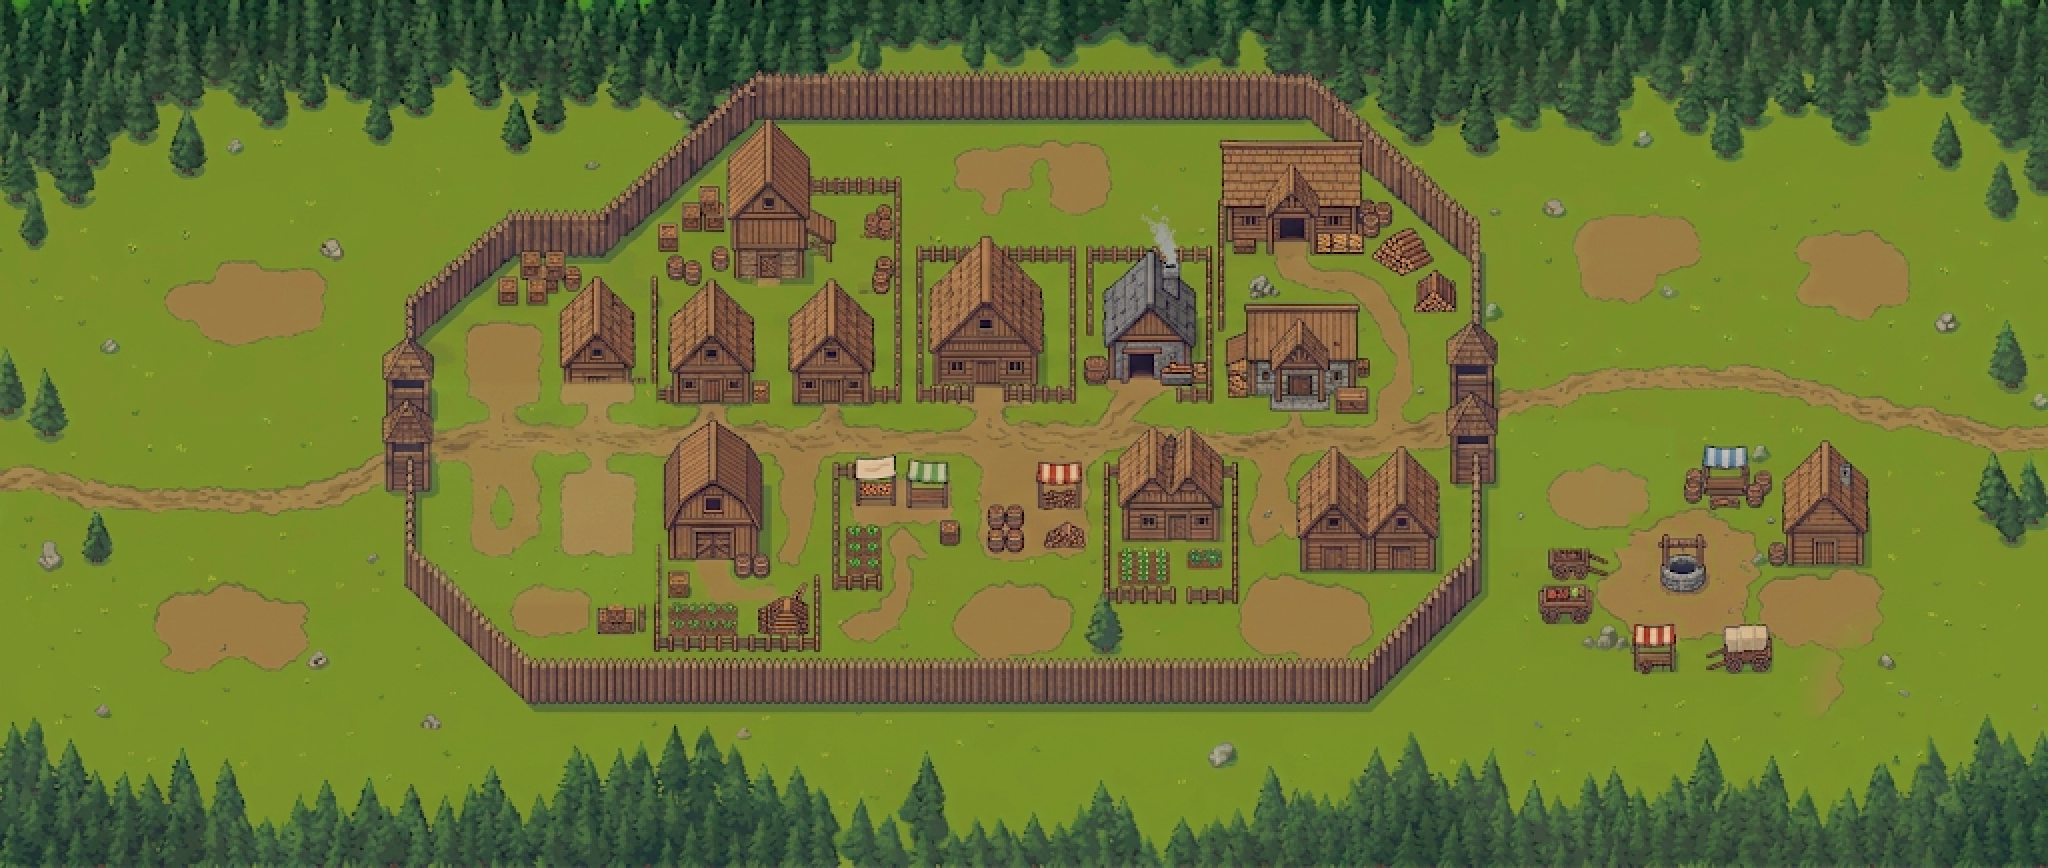
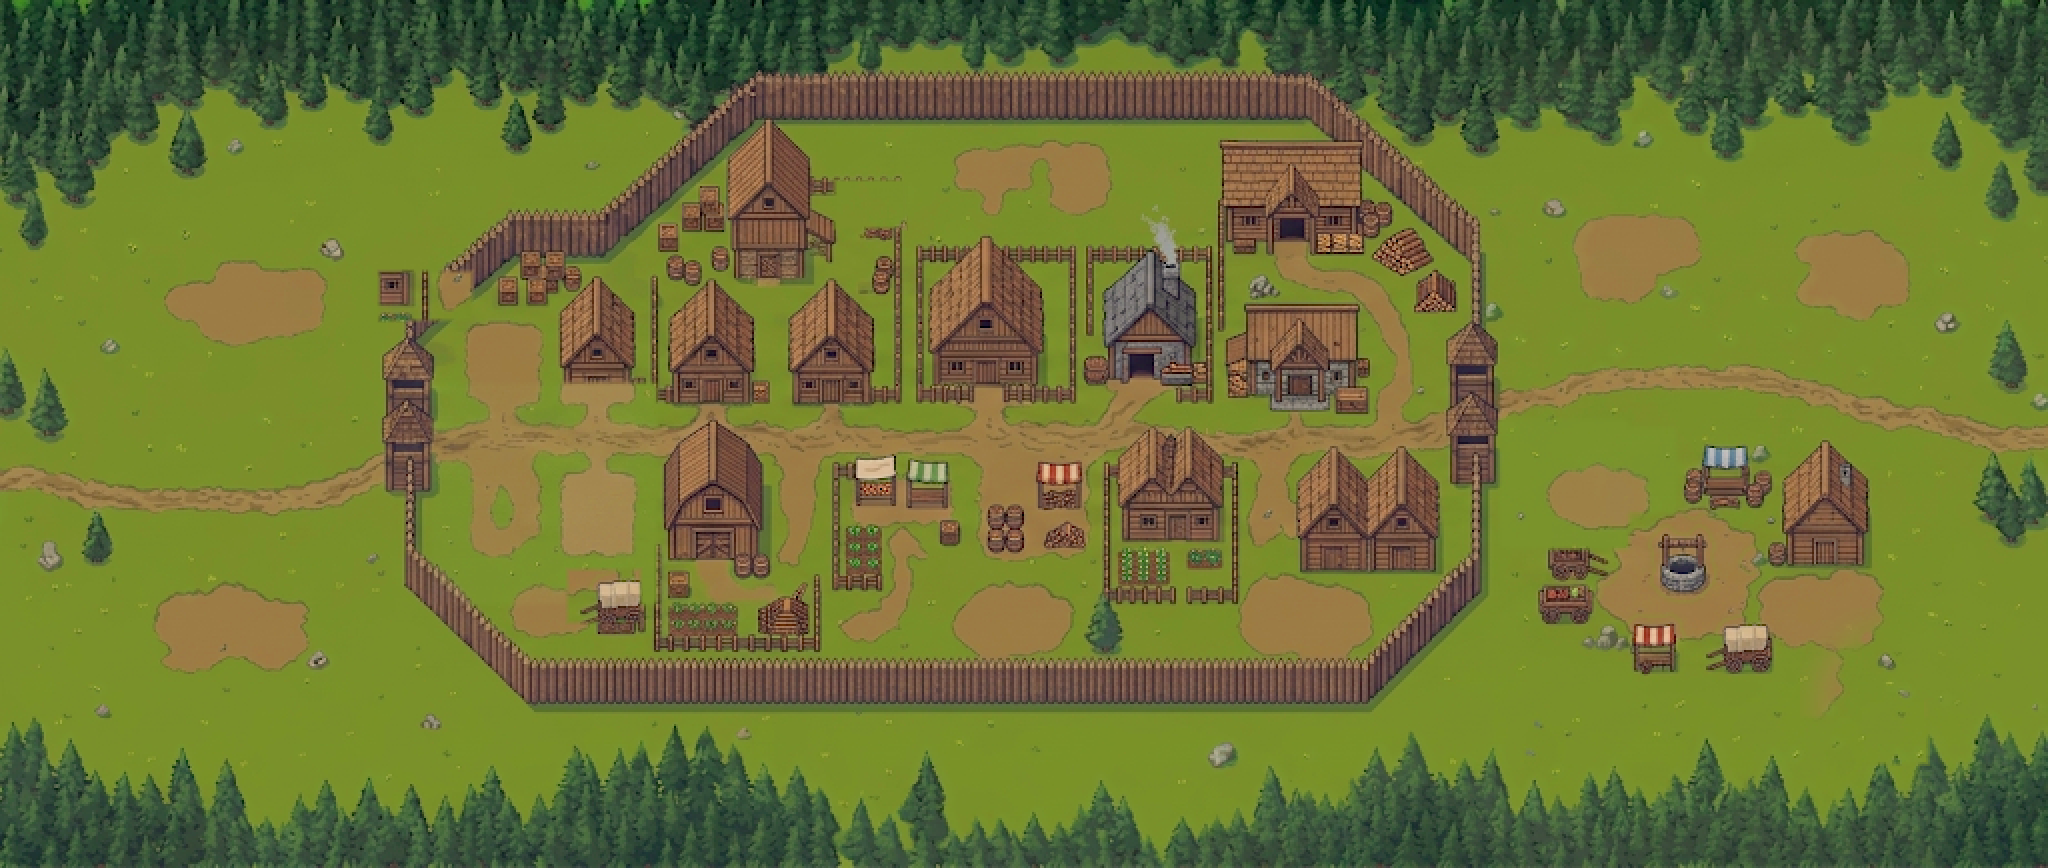
fix: rev6 follow-up batch - one-run flow, Eldervale title, map polish
- Remove Choose Your Map screen: play routes straight into the Verdant run
  (one big run); run-complete button relabeled World Map; verifier updated
- Region title: Eldervale in gold MedievalSharp (self-hosted woff2, white
  outline), replaces emoji + map name
- Region map: 4 light mist patches drifting out of the corrupted corner
  (existing three-lobe system, weaker opacity); ruined keep's animated
  pennant removed (out of place on a ruin)
- Battle map: s3/s7 slot markers re-centered on their pads; new s9 slot on
  the far-east patch; barrels/crates/wagon composited onto 3 unused pads;
  gatehouse occluders reinstated (road passes through the gates)
- Letterbox behind battle canvas: neutral dark backdrop instead of the
  confusing green-tinted map cover
- Radial menu: armed build button no longer grows/jumps (CSS transform was
  replacing the centering translate)
- sw.js v130 -> v131, font added to ASSETS. Verifier: PASS

Changed region(s): [[0.1875, 0.3111, 0.25, 0.3733], [0.4062, 0.1866, 0.4375, 0.28], [0.25, 0.6532, 0.3125, 0.7154]]

diff --git a/learn/drill/drill.js b/learn/drill/drill.js
@@ -3396,7 +3396,7 @@ const TD_WPS_POOL = [
 // ── Three themed maps ──────────────────────────────────────────
 const TD_MAPS = [
   {
-    id: 0, name: 'The Verdant Frontier', icon: '🌿', color: '#4ADE80',
+    id: 0, name: 'The Verdant Frontier', regionName: 'Eldervale', icon: '🌿', color: '#4ADE80',
     subtitle: 'Parts 1–3 · SQL, Modeling & Pipelines',
     parts: [1,2,3], unlockRequirement: 0,
     bgZones: ['#1a3d08','#0a2810','#060c03'], themeName: 'verdant',
@@ -3537,17 +3537,27 @@ const FRONTIER_TOWN_MAP = {
   // gate on painted clearings, 4 inside the walls on open pads (the inside-
   // west pad is where the wide barn stood before it was composited away —
   // its roof sat on the road's south edge).
+  // Slot retune 2026-07-12 (owner markup): s3/s7 re-centered onto their
+  // pads, s9 added on the big NE-of-camp patch. Unused standout pads got
+  // props composited on (barrels/crates/wagon cloned from the map itself)
+  // so open dirt = buildable, cluttered dirt = scenery.
   buildSlotsPx: [
     [242,310],[210,590],     // outside west gate (upper, lower clearing)
-    [1000,184],[540,494],    // inside: top-center pad, west plot (ex-barn)
+    [1050,190],[540,494],    // inside: top-center pad, west plot (ex-barn)
     [1010,580],[1320,600],   // inside: south-center pad, south-east pad
-    [1670,256],[1604,484],   // outside east gate (NE clearing, camp-side clearing)
+    [1584,240],[1604,484],   // outside east gate (NE clearing, camp-side clearing)
+    [1850,236],              // far-east patch past the camp (owner request)
   ],
-  // Empty ON PURPOSE — not "not yet authored". The north-half waypoint line
-  // keeps units in front of every structure (verified against goblin/boss
-  // sprite heights on the route audit), so nothing needs redrawing over
-  // enemies. Occluder redraws hide units behind scenery; zero is the ideal.
-  occludersPx: [],
+  // The north-half waypoint line keeps units in front of every SOUTH-side
+  // structure, but the road passes THROUGH both gatehouses — units overlapped
+  // the tower bodies there ("goblins walk right through the gate wall").
+  // These two tight rects redraw the gatehouses over enemies, so units read
+  // as passing behind/inside the gate for ~0.5s. The rest of the map stays
+  // occluder-free on purpose (occluder redraws hide units; zero elsewhere).
+  occludersPx: [
+    [392,328,466,496],   // west gatehouse tower body
+    [1436,316,1514,504], // east gatehouse tower body
+  ],
 };
 
 function tdManhattanPathSet(wps, cols, rows) {
@@ -4654,6 +4664,15 @@ const RVM_AMBIENT = {
     { cx: 880, cy: 150, rx: 110, ry: 55, dur: 78, delay: -20, op: .20 },
     { cx: 950, cy: 250, rx: 90,  ry: 50, dur: 55, delay: -35, op: .15 },
     { cx: 830, cy: 205, rx: 70,  ry: 35, dur: 70, delay: -8,  op: .12 },
+    // 2026-07-12: light vapor drifting out of the corrupted corner into the
+    // mid-region (owner request) — deliberately weaker (op .07-.12) and
+    // smaller than the corrupted-zone banks so it reads as thinning
+    // outflow, broken and uneven, not a second weather system. Same
+    // three-lobe gradient patches as above = same painted look.
+    { cx: 700, cy: 330, rx: 75, ry: 30, dur: 84, delay: -12, op: .10 },
+    { cx: 612, cy: 175, rx: 60, ry: 24, dur: 71, delay: -44, op: .07 },
+    { cx: 795, cy: 395, rx: 85, ry: 34, dur: 66, delay: -28, op: .12 },
+    { cx: 545, cy: 300, rx: 55, ry: 22, dur: 90, delay: -55, op: .07 },
   ],
   // Chimney/campfire sources as [x, y, dx]: dx is the horizontal drift (px)
   // a puff picks up over its rise, matched to each landmark's PAINTED plume
@@ -4671,10 +4690,11 @@ const RVM_AMBIENT = {
     [234,106],[259,158],[300,250],[348,333],[298,394],[325,93],[326,144],
     [338,268],[364,306],[590,140],[660,130],[700,180],[619,198],[708,196],[872,277],
   ],
-  // Pennant poles planted ON the tower tips (keep's central spire, the
-  // crag watchtower's roof apex) — earlier coords floated beside them.
+  // Pennant pole planted ON the crag watchtower's roof apex. The ruined
+  // keep's pennant was removed (owner, 2026-07-12): a crisp flying flag on
+  // a decrepit corrupted ruin read as out of place.
   flags: [
-    { x: 827, y: 37 }, { x: 444, y: 191 },
+    { x: 444, y: 191 },
   ],
   sheep: [  // grazing wanderers inside the painted flocks' open grass
     { x: 555, y: 235, dur: 55, delay: 0 },   // lakeside meadow (was in the trees NW of it)
@@ -4807,7 +4827,7 @@ function renderVerdantWorldMap(run) {
       <div class="region-map-header">
         <button class="td-header-back" id="td-header-back">← Home</button>
         <div class="region-map-header-text">
-          <span class="region-map-title">${mapDef.icon} ${mapDef.name}</span>
+          <span class="region-map-title region-map-title-fancy">${mapDef.regionName || mapDef.name}</span>
         </div>
         <div class="td-header-right">
           <button class="td-header-icon" id="td-header-inventory" title="Inventory">🎒</button>
@@ -4954,7 +4974,15 @@ function showRunMap(run) {
   if (run.usesRegionMap) renderVerdantWorldMap(run); else renderRunMap(run);
 }
 
-function showTDWorldMap() { battleMusicHorn.stop(); showMapSelection(); }
+// One big run (owner decision 2026-07-12): the "Choose Your Map" screen is
+// bypassed — play routes straight into the Verdant run. showMapSelection
+// stays intact (unreferenced) for if/when multiple worlds go live.
+function showTDWorldMap() {
+  battleMusicHorn.stop();
+  const existRun = tdLoadRun();
+  const run = isRunCompatible(existRun, 0) ? existRun : generateRun(0);
+  showRunMap(run);
+}
 
 // ── Relic equip menu (EQ-4) ──────────────────────────────────────
 // Reachable from the run map / map select top bar. Category exclusivity is
@@ -5385,7 +5413,7 @@ function showRunCompleteScreen(run, finalGoldReward) {
       </div>
       <div class="run-complete-btns">
         <button class="td-wave-btn" id="rc-play-again">▶ Play Again</button>
-        <button class="td-map-btn"  id="rc-choose-map">🗺️ Choose Map</button>
+        <button class="td-map-btn"  id="rc-choose-map">🗺️ World Map</button>
       </div>
     </div>`;
 
@@ -5393,7 +5421,7 @@ function showRunCompleteScreen(run, finalGoldReward) {
     const newRun = generateRun(run.mapId);
     showRunMap(newRun);
   });
-  document.getElementById('rc-choose-map').addEventListener('click', showMapSelection);
+  document.getElementById("rc-choose-map").addEventListener("click", showTDWorldMap);
 }
 
 // ── Tutorial ───────────────────────────────────────────────────
@@ -5619,10 +5647,14 @@ function initTDGame(levelDef, levelIdx, startLivesOverride, startGoldOverride) {
     td.occluders = levelDef.occludersPx || null;
     td.bgSize = levelDef.bgSize || null;
     // Fill the letterbox around the contain-fit canvas with the same map
-    // art, cover-fit and slightly darkened — dead black margins read as a
-    // vignette ("looking through a closing eye"); continuing forest doesn't.
+    // art, cover-fit and darkened. The old .35 green-tinted wash was light
+    // enough that the stretched cover copy read as PART OF THE MAP ("why is
+    // there a green overlay / is it cut off?" — owner, 2026-07-12). Neutral
+    // blue-black at .82 keeps a hint of forest texture but is unmistakably
+    // backdrop, while still avoiding the dead-black vignette this exists
+    // to prevent.
     wrap.style.background =
-      `linear-gradient(rgba(6,10,6,.35), rgba(6,10,6,.35)), ` +
+      `linear-gradient(rgba(8,11,16,.82), rgba(8,11,16,.82)), ` +
       `url('${td.paintedBg.src}') center / cover no-repeat`;
   } else {
     td.usesPaintedBg = null;

diff --git a/learn/drill/drill.css b/learn/drill/drill.css
@@ -2427,10 +2427,14 @@ html, body {
 .td-radial-btn.disabled { opacity: .35; pointer-events: none; }
 .td-radial-icon { font-size: 1.3rem; line-height: 1; pointer-events: none; }
 .td-radial-sub { font-size: .56rem; font-weight: 800; color: #FBBF24; pointer-events: none; }
-/* Armed build option (two-tap placement): glow the picked button */
+/* Armed build option (two-tap placement): glow the picked button.
+   NOTE: must repeat the base translate(-50%,-50%) — a bare scale() would
+   REPLACE it, which made the armed button grow AND jump down-right by half
+   its own size (the "second radial is larger and off in another direction"
+   bug). Same size, same place, glow only. */
 .td-radial-btn.armed {
   box-shadow: 0 0 0 3px rgba(255,255,255,.35), 0 0 14px 2px currentColor;
-  transform: scale(1.12);
+  transform: translate(-50%, -50%);
 }
 /* Stacked tower stat card shown while a build option is armed */
 .td-tower-info {
@@ -2804,6 +2808,27 @@ html, body {
     0 1px 0 #7c2d12,
     0 2px 8px rgba(0,0,0,.65),
     0 0 18px rgba(245,158,11,.3);
+}
+/* Region place-name treatment (owner spec 2026-07-12): gold, white-outlined,
+   old-script-but-readable. Font is self-hosted (offline PWA — no CDN fetch);
+   the serif stack below is the pre-load/failure fallback. White outline via
+   stacked 1px shadows: -webkit-text-stroke eats MedievalSharp's thin strokes
+   at this size. */
+@font-face {
+  font-family: 'MedievalSharp';
+  src: url('assets/fonts/MedievalSharp.woff2') format('woff2');
+  font-display: swap;
+}
+.region-map-title-fancy {
+  font-family: 'MedievalSharp', 'Palatino Linotype', Palatino, Georgia, serif;
+  font-size: 1.55rem;
+  font-weight: 400;
+  letter-spacing: .05em;
+  color: #E8B84B;
+  text-shadow:
+    -1px -1px 0 rgba(255,255,255,.85), 1px -1px 0 rgba(255,255,255,.85),
+    -1px  1px 0 rgba(255,255,255,.85), 1px  1px 0 rgba(255,255,255,.85),
+     0 3px 10px rgba(0,0,0,.75);
 }
 .region-map-header .td-header-back,
 .region-map-header .td-header-icon {

diff --git a/learn/drill/sw.js b/learn/drill/sw.js
@@ -1,4 +1,4 @@
-const CACHE = 'de-drill-v130';
+const CACHE = 'de-drill-v131';
 const ASSETS = [
   './index.html',
   './drill.css',
@@ -9,6 +9,7 @@ const ASSETS = [
   './assets/audio/verdant-battle-strings.mp3',
   './assets/worlds/verdant/region.png',
   './assets/worlds/verdant/battlemaps/frontier-town.png',
+  './assets/fonts/MedievalSharp.woff2',
   './assets/enemies/goblin-walk.png',
   './assets/enemies/goblin-death.png',
   './assets/towers/ranger-tier1.png',

diff --git a/docs/REV6_FOLLOWUPS.md b/docs/REV6_FOLLOWUPS.md
@@ -8,20 +8,20 @@ not pre-mark anything DONE.
 | # | Item | Plan | Status |
 |---|------|------|--------|
 | 1 | This doc | Commit + push before starting work | DONE |
-| 2 | Remove "Choose Your Map" screen | One big run: play routes straight into the Verdant run (map 0); chooser code stays dormant | TODO |
-| 3 | Region title → fantasy name, gold script font | Rename region header to **Eldervale** (owner can veto — one string). Gold fill, white outline, medieval-script-but-readable font, self-hosted woff2 in assets/fonts + SW ASSETS, serif fallback | TODO |
-| 4 | Mist vapor on region map (natural, broken, uneven, light) | Try painted-style wisps as a canvas overlay (low-alpha noise patches). HONESTY GATE: owner said "if it can't look natural, tell me" — if it reads fake, report back instead of shipping | TODO |
-| 5 | Remove flag from ruined keep (region.png) | Clone-stamp out (sparkle-removal technique). Locate flag coords first | TODO |
-| 6a | Slot markers off pad centers | Audit each of the 8 buildSlotsPx against the shipped 2048 asset; retune to visual pad centers | TODO |
-| 6b | New slot on big east dirt patch (owner's circle) | Add 9th slot at that patch's center (locate precisely) | TODO |
-| 6c | Unused dirt pads stand out (owner's squares) | Composite props stolen from the map itself (barrels/wagons/crates, feathered paste) onto unused pads; regenerate asset | TODO |
-| 7 | Green overlay / cutoff strip below canvas | Diagnose: letterbox area likely shows wrap's cover-scaled bg + tint. Fix to neutral dark. CONFIRM in code first | TODO |
-| 8 | Second radial (build-arm step) larger + displaced | Make confirm/stat step same size + anchor as first radial. Find both render paths first | TODO |
-| 9 | Goblins walk through gate walls | Add tight occluders for west/east gate wall+towers (road passes THROUGH them — the legitimate exception to the zero-occluder rule). Measure rects | TODO |
+| 2 | Remove "Choose Your Map" screen | One big run: play routes straight into the Verdant run (map 0); chooser code stays dormant | DONE |
+| 3 | Region title → fantasy name, gold script font | Rename region header to **Eldervale** (owner can veto — one string). Gold fill, white outline, medieval-script-but-readable font, self-hosted woff2 in assets/fonts + SW ASSETS, serif fallback | DONE |
+| 4 | Mist vapor on region map (natural, broken, uneven, light) | Try painted-style wisps as a canvas overlay (low-alpha noise patches). HONESTY GATE: owner said "if it can't look natural, tell me" — if it reads fake, report back instead of shipping | DONE |
+| 5 | Remove flag from ruined keep (region.png) | Clone-stamp out (sparkle-removal technique). Locate flag coords first | DONE (was the animated SVG pennant, not paint) |
+| 6a | Slot markers off pad centers | Audit each of the 8 buildSlotsPx against the shipped 2048 asset; retune to visual pad centers | DONE |
+| 6b | New slot on big east dirt patch (owner's circle) | Add 9th slot at that patch's center (locate precisely) | DONE |
+| 6c | Unused dirt pads stand out (owner's squares) | Composite props stolen from the map itself (barrels/wagons/crates, feathered paste) onto unused pads; regenerate asset | DONE |
+| 7 | Green overlay / cutoff strip below canvas | Diagnose: letterbox area likely shows wrap's cover-scaled bg + tint. Fix to neutral dark. CONFIRM in code first | DONE |
+| 8 | Second radial (build-arm step) larger + displaced | Make confirm/stat step same size + anchor as first radial. Find both render paths first | DONE (CSS transform bug) |
+| 9 | Goblins walk through gate walls | Add tight occluders for west/east gate wall+towers (road passes THROUGH them — the legitimate exception to the zero-occluder rule). Measure rects | DONE |
 
 ## Ship checklist (learn/drill gate)
-- [ ] sw.js cache bump (v130 → v131) + any new assets (font) in ASSETS
-- [ ] Verifier pass (`bash .claude/skills/verifier-browser.sh`)
+- [x] sw.js cache bump (v130 → v131) + font added to ASSETS
+- [x] Verifier pass (verifier itself updated for the no-chooser flow)
 - [ ] PR → merge → pages workflow green
 - [ ] Owner phone check
 
@@ -39,5 +39,28 @@ not pre-mark anything DONE.
   circle = big dirt patch east of the camp across the road; squares = the
   unused interior dirt pads; arrows = markers sitting off pad centers.
 
-## Resolution notes (append as items land — with real values, not plans)
-- (empty)
+## Resolution notes (real values, as landed)
+- 2: showTDWorldMap() now loads/creates the map-0 run directly (isRunCompatible
+  guard); rc-choose-map relabeled "World Map" and routed the same way;
+  verifier-browser.sh updated to expect the region map straight from play.
+- 3: region header shows mapDef.regionName = "Eldervale" (one string to
+  rename); MedievalSharp.woff2 self-hosted (53 KB), gold #E8B84B, white
+  outline via stacked 1px text-shadows (.region-map-title-fancy).
+- 4: extended the EXISTING rvm mist system (three-lobe gradient patches):
+  4 new patches at (700,330)(612,175)(795,395)(545,300), op .07-.12 —
+  weaker than the corrupted-zone banks so it reads as thinning outflow.
+- 5: removed the keep pennant entry from RVM_AMBIENT.flags (it was the
+  animated SVG flag, not painted pixels); crag watchtower flag kept.
+- 6a: s3 (1000,184)->(1050,190); s7 (1670,256)->(1584,240); others verified
+  centered (2048-space).
+- 6b: s9 = (1850,236), the big patch NE of the camp.
+- 6c: props cloned in-map with feathered paste: barrels (src 1186,504)->pad
+  (426,296); crates (src 394,204)->pad (870,204); wagon (src 1690,610)->pad
+  (604,596).
+- 7: letterbox gradient rgba(6,10,6,.35) green -> rgba(8,11,16,.82) neutral
+  blue-black (texture kept, unmistakably backdrop).
+- 8: root cause was CSS: .td-radial-btn.armed set transform:scale(1.12),
+  REPLACING the base translate(-50%,-50%) -> armed button grew and jumped
+  half its size down-right. Fix: keep translate, drop scale (glow only).
+- 9: occludersPx = west gatehouse [392,328,466,496], east [1436,316,1514,504]
+  (tower bodies only; units hidden ~0.5s passing through the gate).

diff --git a/docs/CHANGELOG.md b/docs/CHANGELOG.md
@@ -122,4 +122,6 @@ A record of every feature, fix, and improvement shipped to the app.
 
 - Reorganize docs into docs/, README leads with the game (#99)
 
+- Rev6 follow-ups working doc (survival checkpoint)
+
 